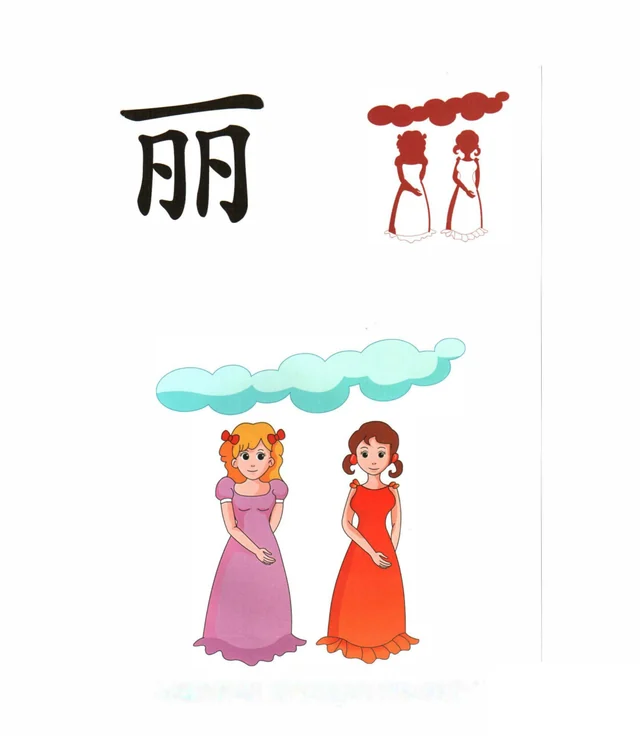
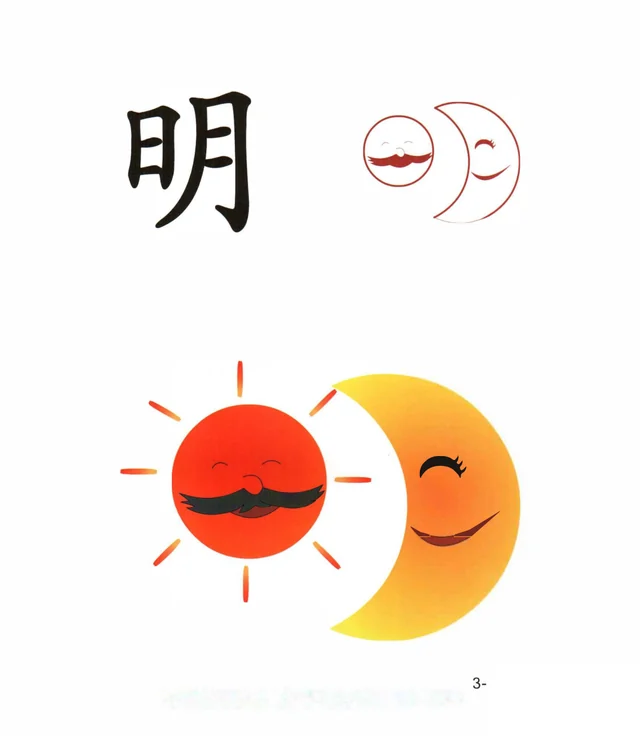
校对形近字错位：修正子/明/白，删除日/一/月/眠，门改甲骨文兜底
人工核对 120 张卡片后发现 8 处索引错位（转录时形近字混淆）：
- 子→孔、明→丽、白→伯、门→们、日→阳、一→望、月→嗓、眠→催

处理：
- 子/明/白 各有第二张是正确的，按新位置重裁
- 日/一/月/眠 没有正确卡片，从索引删除
- 门 用甲骨文兜底

最终 121 字：115 卡片 + 6 甲骨文

diff --git a/app/data.js b/app/data.js
@@ -1477,11 +1477,7 @@ window.SHIZI = {
       "word": "一个",
       "audio": "assets/audio/3db0a231c27d.mp3",
       "wordAudio": "assets/audio/e42739e63902.mp3",
-      "status": "planned",
-      "pictograph": {
-        "kind": "img",
-        "src": "assets/cards/u4e00.webp"
-      }
+      "status": "planned"
     },
     "下": {
       "pinyin": "xià",
@@ -1546,7 +1542,7 @@ window.SHIZI = {
       "status": "planned",
       "pictograph": {
         "kind": "img",
-        "src": "assets/cards/u767d.webp"
+        "src": "assets/cards/bai.webp"
       }
     },
     "从": {
@@ -1623,7 +1619,7 @@ window.SHIZI = {
       "status": "planned",
       "pictograph": {
         "kind": "img",
-        "src": "assets/cards/u5b50.webp"
+        "src": "assets/cards/zi.webp"
       }
     },
     "看": {
@@ -2152,8 +2148,8 @@ window.SHIZI = {
       "wordAudio": "assets/audio/107b8eb94827.mp3",
       "status": "planned",
       "pictograph": {
-        "kind": "img",
-        "src": "assets/cards/men.webp"
+        "kind": "svg",
+        "src": "<svg xmlns=\"http://www.w3.org/2000/svg\" viewBox=\"0 0 100 100\" role=\"img\" aria-hidden=\"true\"><g transform=\"translate(21.12,8.00) scale(2.6250)\"><path d=\"M 4 4 L 4 28\" fill=\"none\" stroke=\"#3B352C\" stroke-width=\"1.067\" stroke-linecap=\"round\" stroke-linejoin=\"round\"/><path d=\"M 4 28 L 4 28\" fill=\"none\" stroke=\"#3B352C\" stroke-width=\"1.067\" stroke-linecap=\"round\" stroke-linejoin=\"round\"/><path d=\"M 9 8 L 9 22\" fill=\"none\" stroke=\"#3B352C\" stroke-width=\"1.067\" stroke-linecap=\"round\" stroke-linejoin=\"round\"/><path d=\"M 13 8 L 13 22\" fill=\"none\" stroke=\"#3B352C\" stroke-width=\"1.067\" stroke-linecap=\"round\" stroke-linejoin=\"round\"/><path d=\"M 18 4 L 18 28\" fill=\"none\" stroke=\"#3B352C\" stroke-width=\"1.067\" stroke-linecap=\"round\" stroke-linejoin=\"round\"/><path d=\"M 4 8 L 9 8\" fill=\"none\" stroke=\"#3B352C\" stroke-width=\"1.067\" stroke-linecap=\"round\" stroke-linejoin=\"round\"/><path d=\"M 4 15 L 9 15\" fill=\"none\" stroke=\"#3B352C\" stroke-width=\"1.067\" stroke-linecap=\"round\" stroke-linejoin=\"round\"/><path d=\"M 4 22 L 9 22\" fill=\"none\" stroke=\"#3B352C\" stroke-width=\"1.067\" stroke-linecap=\"round\" stroke-linejoin=\"round\"/><path d=\"M 13 8 L 18 8\" fill=\"none\" stroke=\"#3B352C\" stroke-width=\"1.067\" stroke-linecap=\"round\" stroke-linejoin=\"round\"/><path d=\"M 13 15 L 18 15\" fill=\"none\" stroke=\"#3B352C\" stroke-width=\"1.067\" stroke-linecap=\"round\" stroke-linejoin=\"round\"/><path d=\"M 13 22 L 18 22\" fill=\"none\" stroke=\"#3B352C\" stroke-width=\"1.067\" stroke-linecap=\"round\" stroke-linejoin=\"round\"/></g></svg>"
       }
     },
     "跳": {
@@ -2478,11 +2474,7 @@ window.SHIZI = {
       "word": "睡眠",
       "audio": "assets/audio/7cf6fb41f385.mp3",
       "wordAudio": "assets/audio/a26af602155e.mp3",
-      "status": "planned",
-      "pictograph": {
-        "kind": "img",
-        "src": "assets/cards/u7720.webp"
-      }
+      "status": "planned"
     },
     "觉": {
       "pinyin": "jué",

diff --git a/README.md b/README.md
@@ -53,7 +53,7 @@ python3 tests/bundle_check.py   # 单文件在沙箱 srcdoc 里也能出声
 | 单文件 | `dist/shizi-demo.html` 8.3 MB，CSS/JS/插画/音频全部内联 |
 | 测试 | 课程校验、约束拒绝路径、前后端口径一致、10 项 UI 回归 |
 
-### 象形卡（125 个字）
+### 象形卡（121 个字）
 
 长按一个字出大字卡，**再点一下卡片**，字会变成象形图。
 
@@ -62,16 +62,17 @@ python3 tests/bundle_check.py   # 单文件在沙箱 srcdoc 里也能出声
 
 | 项 | 说明 |
 |---|---|
-| 卡片覆盖 | 字表 144 字里命中 **120** 个 |
-| 补字 | 另外 5 个（雨、鸟、鱼、田、小）用开源甲骨文兜底，风格偏线条 |
-| 缺 | 19 个：鲤、天、告、能、浪、尽、身、纵、很、刚、锄、头、桩、合、又、傻、晓、啼、风 |
-| 体积 | 120 张 640px WebP，合计 1.9 MB；单文件 Demo 因此到 10.9 MB |
+| 卡片覆盖 | 字表 144 字里命中 **115** 个（另有 6 个用甲骨文兜底） |
+| 补字 | 雨、鸟、鱼、田、小、门 用开源甲骨文兜底，风格偏线条 |
+| 缺 | 23 个：鲤、天、告、能、浪、尽、身、纵、很、刚、锄、头、桩、合、又、傻、晓、啼、风、日、一、月、眠 |
+| 体积 | 115 张 640px WebP，合计 1.9 MB；单文件 Demo 因此到 10.8 MB |
 
 **怎么做的**：
 
 1. `pixmaps` 300 DPI 渲染每页 → 按 2×2 切卡 → 去掉底部水印与编号
 2. 裁出每张卡左上角的黑字，拼成 8×8 索引图，**人工逐张读字**，建立 `字 → (页, 位置)`
 3. 按索引回原图裁卡片，640px WebP
+4. **逐张人工核对 120 张卡片与字的对应**，修正 3 处形近字错位（子/孔、明/丽、白/伯），删除 4 个找不到正确卡片的字（日/一/月/眠）
 
 > 最初试过 tesseract，单字识别完全不可用（把「米」认成「洗」）；
 > 改成人工读索引图，1400 个字分 22 张图读完，再用字表校对。
